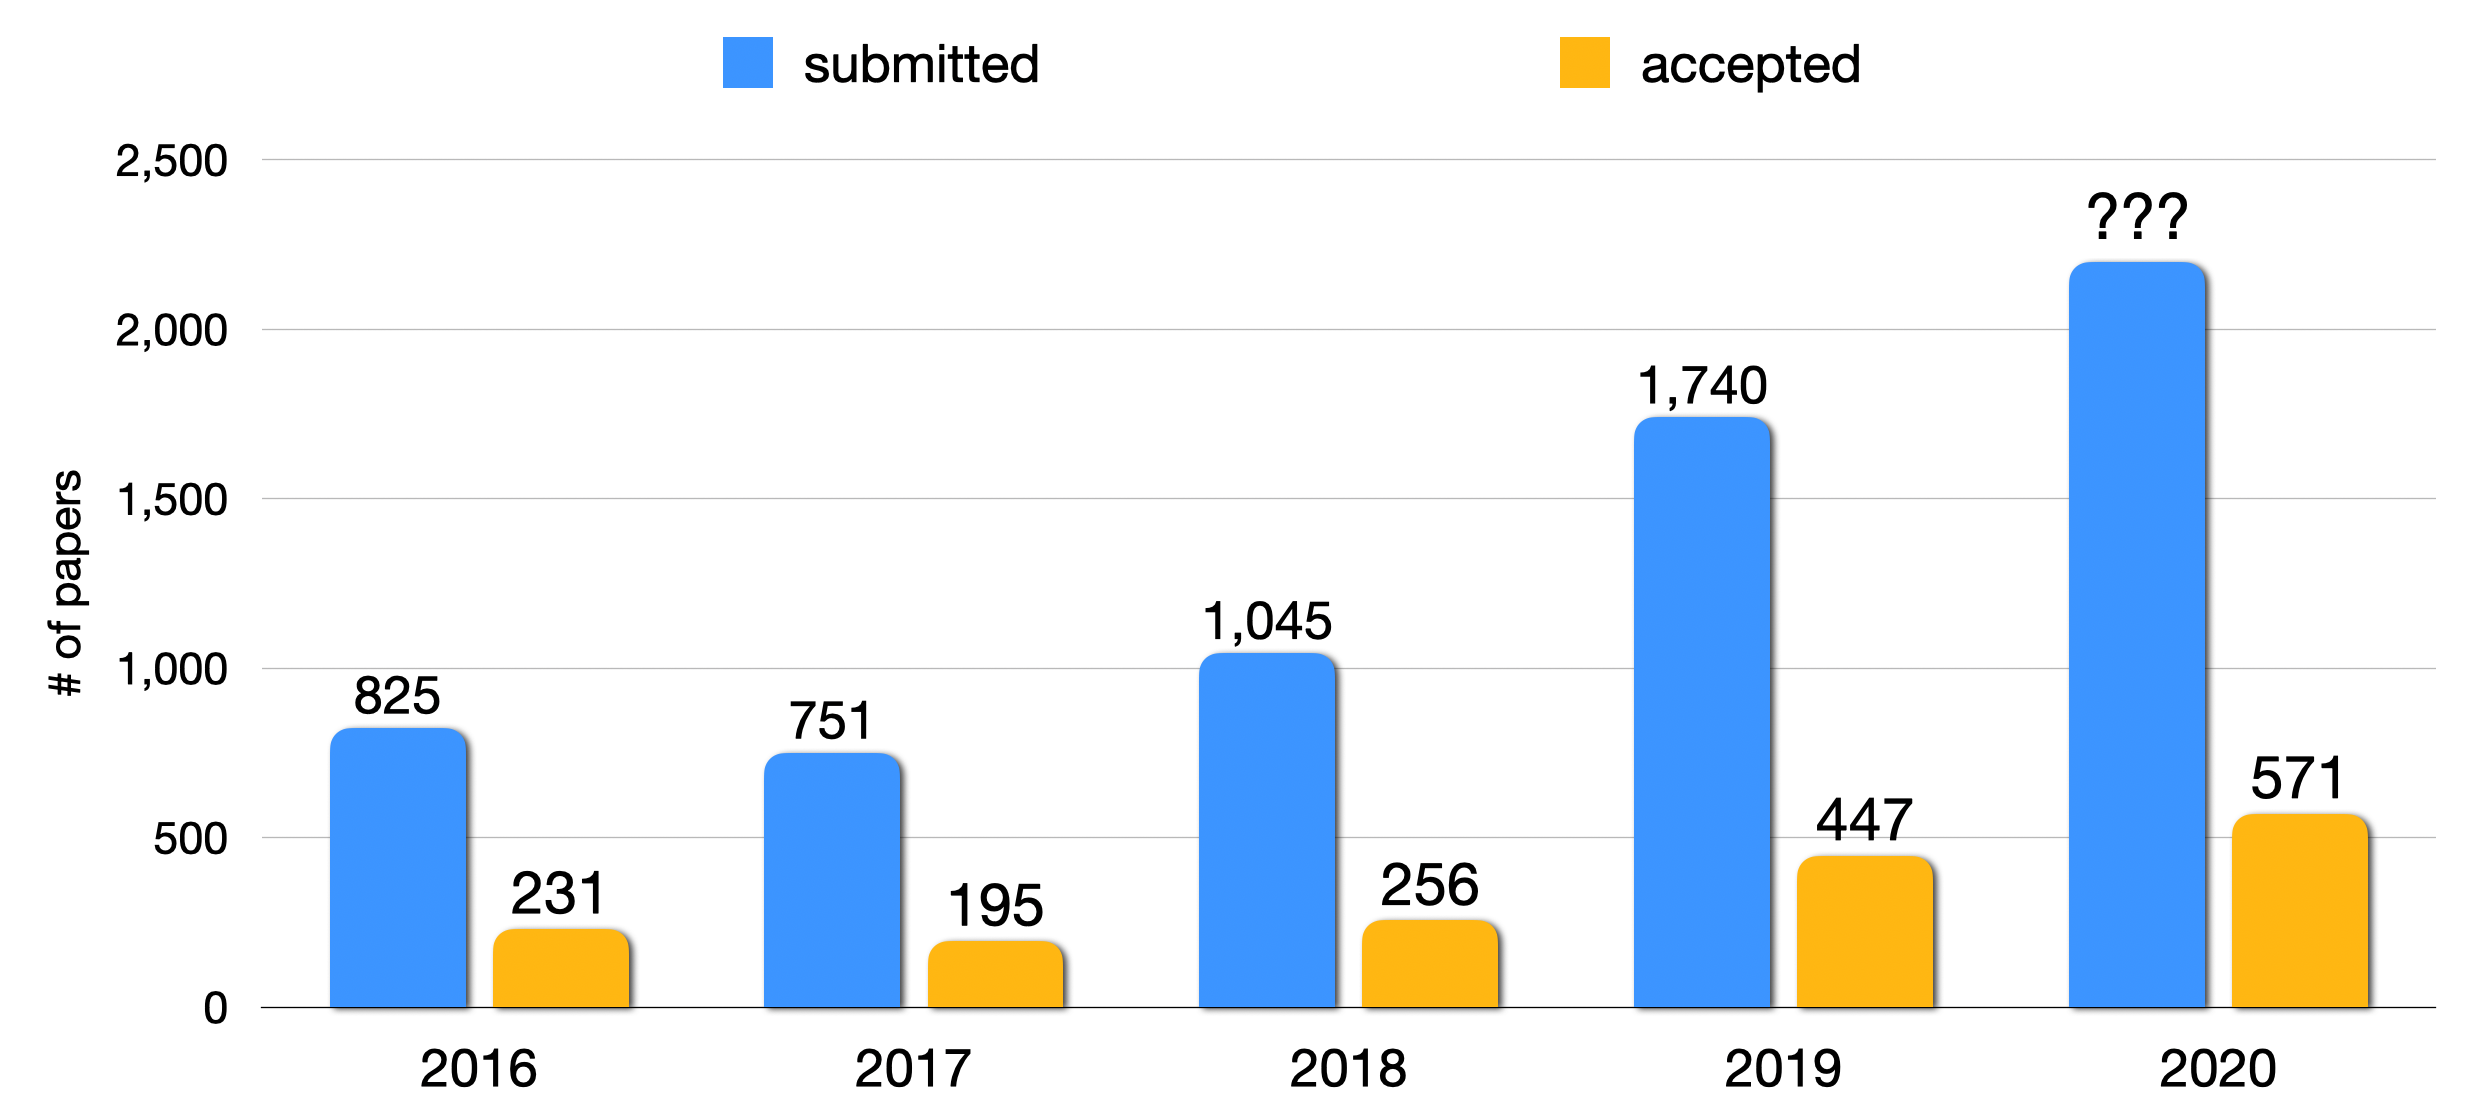
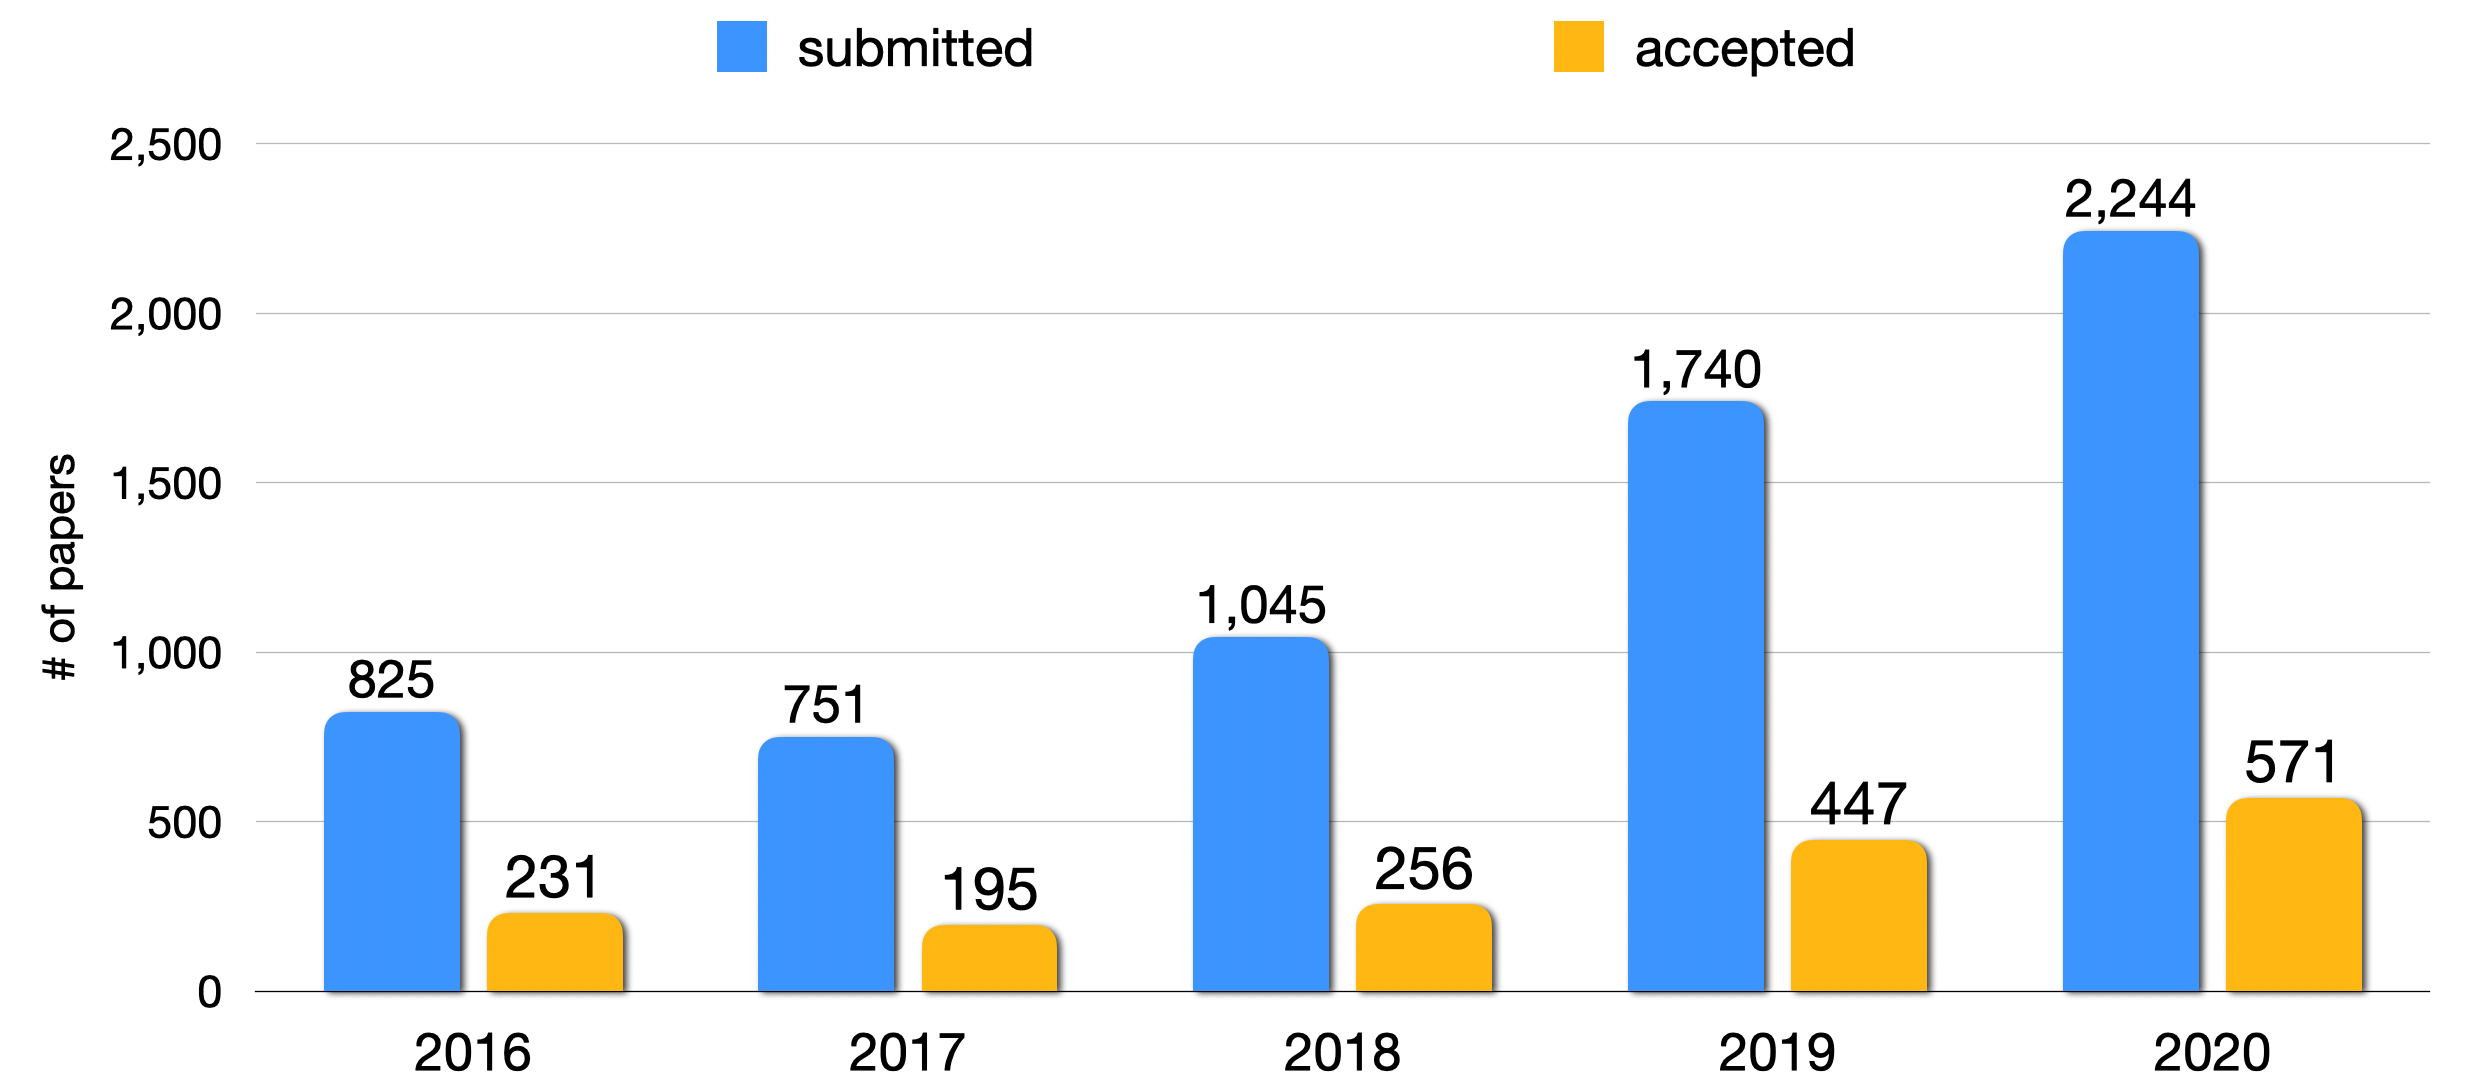
fix: update number of submitted papers in 2020

diff --git a/README.md b/README.md
@@ -10,6 +10,8 @@ Statistics and accepted paper list of [ACL 2020](https://acl2020.org/) with [arX
 
 ![rate](figure/acceptance.png)
 
+- [ACL2020: General Conference Statistics](https://acl2020.org/blog/general-conference-statistics/)
+
 ## ACL 2020 Paper Keywords
 
 ![keywords](figure/keywords.png)
